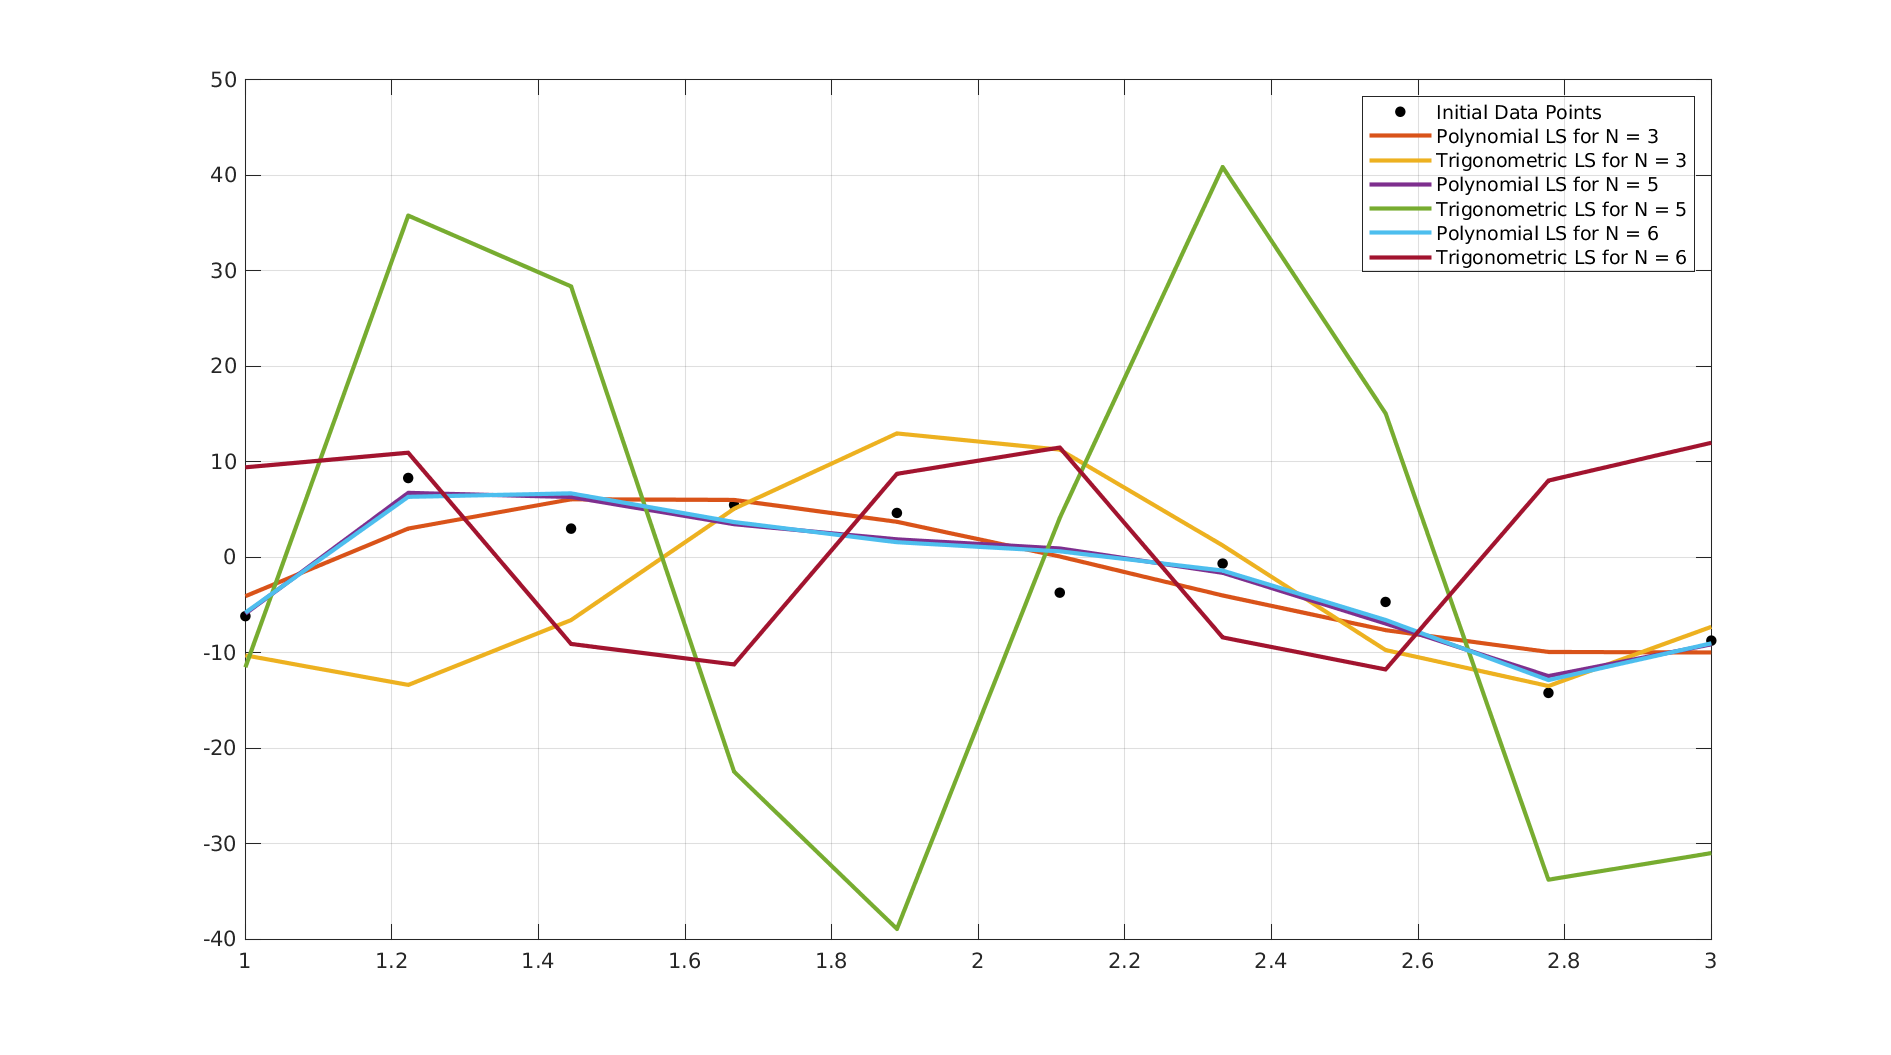
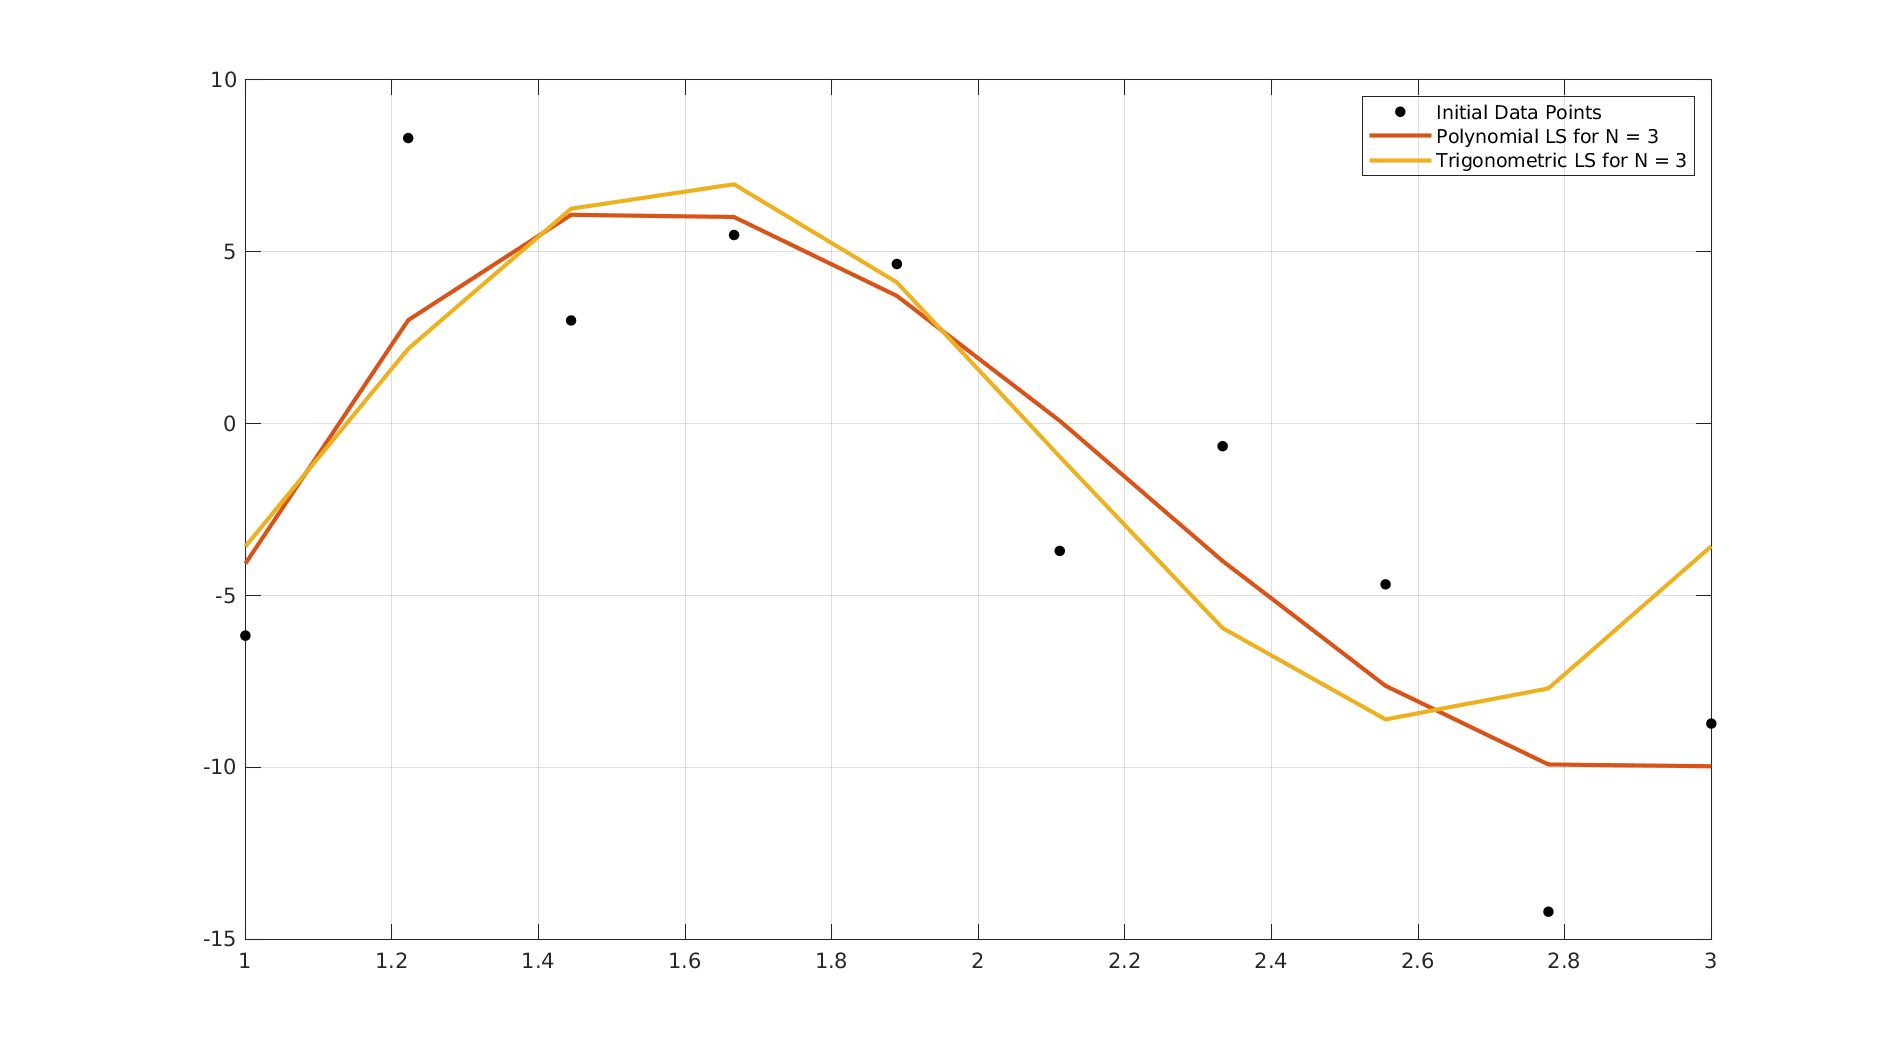
Fix trigfit implementation

diff --git a/Project 2/LSE.m b/Project 2/LSE.m
@@ -6,7 +6,8 @@ T = dlmread('data.txt');
 x = T(1,1:10); x=x';
 y = T(2,1:10); y = y';
 % given degrees
-n = [3; 5; 6];
+% n = [3; 5; 6];
+n = [3];
 
 % Plot Initial points
 fig = figure("Name","Project 2","NumberTitle","off",'Renderer', 'painters', 'Position', [10 10 1200 675]);
@@ -16,23 +17,30 @@ lgd = legend('Initial Data Points'); grid on; hold on;
 % For each degree, calculate Least Squares Fit
 for i=1:size(n)
     % Vars that need to reset
-    b2 = 0;
     A = [];
+    A2 = [];
     
     % For polyfit, we need to find A for Ax*=b
     % A's dimensions are determined by the degree
     for idx=0:n(i,1)
         A = [A,x.^idx];
+        if idx ~= 0
+            A2 = [A2,sin(x*idx)];
+        end
     end
     
     % Now find x* and b.
-    xStar = (A'*A)\(A'*y); % use mldivide because it is more accurate than inverting
-    b = A*xStar; % coefficients for both sets of linear equations
+    % Use row reduction in case of inconsistent data
+    % polyfit coefficients
+    xStar = rref([A'*A A'*y]); 
+    xStar = xStar(:,end);
+    % trigfit coefficients
+    x2Star = rref([A2'*A A2'*y]);
+    x2Star = x2Star(:,end);
     
-    % For trigfit, we need coefficients x*, degree, and x value
-    for(j=size(xStar,1))
-        b2 = b2 + xStar(j,1)*sin(j*x); 
-    end
+    % Grab new y matrix
+    b = A*xStar;
+    b2 = A2*x2Star;
     
     % Calculate error
     e1 = sqrt(sum(abs(b-y).^2/size(x,1)));  % Poly
